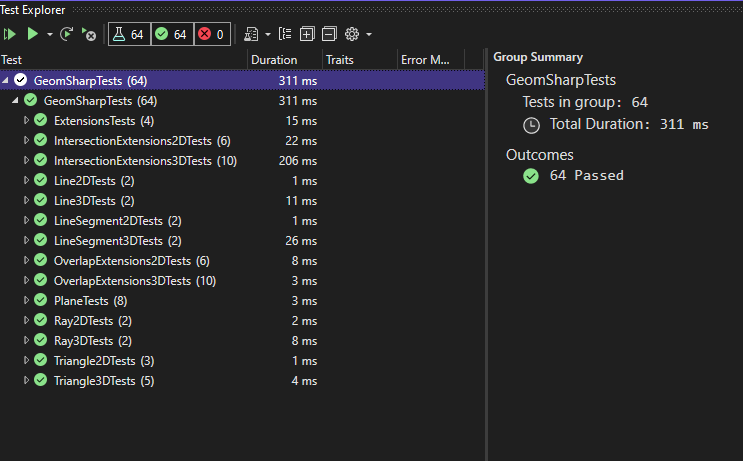
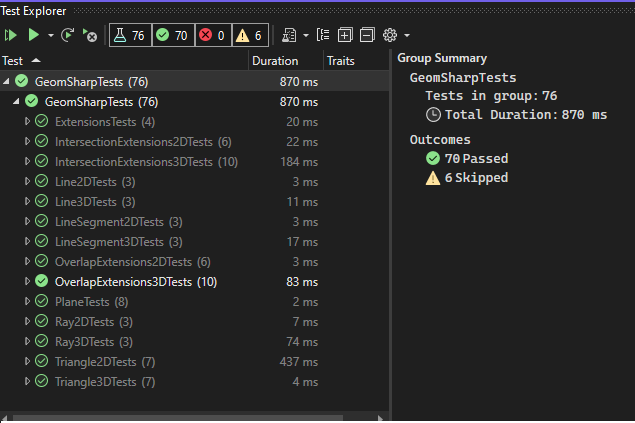
Adjacency test in 2D

diff --git a/GeomSharpTests/Triangle2DTests.cs b/GeomSharpTests/Triangle2DTests.cs
@@ -402,6 +402,76 @@ namespace GeomSharpTests {
       t2 = Triangle2D.FromPoints(p0, p1, p2);
       Assert.IsFalse(t1.Touches(t2), "intersecting\n\tt1=" + t1.ToWkt() + "\n\tt2=" + t2.ToWkt());
     }
+
+    [RepeatedTestMethod(1)]
+    public void Adjacency() {
+      // 2D
+      var t1 = RandomGenerator.MakeTriangle2D().Triangle;
+
+      // Console.WriteLine("t = " + t.ToWkt());
+      if (t1 is null) {
+        return;
+      }
+
+      // temporary data
+      var cm = t1.CenterOfMass();
+      var mid01 = Point2D.FromVector((t1.P0.ToVector() + t1.P1.ToVector()) / 2.0);
+      var mid12 = Point2D.FromVector((t1.P1.ToVector() + t1.P2.ToVector()) / 2.0);
+      var mid20 = Point2D.FromVector((t1.P2.ToVector() + t1.P0.ToVector()) / 2.0);
+      // results and test data
+      Triangle2D t2;
+      IntersectionResult res;
+      Point2D p0, p1, p2;
+
+      // adjacent (same side)
+      p0 = t1.P0;
+      p1 = t1.P1;
+      p2 = mid01 + (mid01 - cm);
+      t2 = Triangle2D.FromPoints(p0, p1, p2);
+      Assert.IsTrue(t1.IsAdjacent(t2), "adjacent (same side)\n\tt1=" + t1.ToWkt() + "\n\tt2=" + t2.ToWkt());
+      res = t1.AdjacentSide(t2);
+      Assert.IsTrue(((LineSegment2D)res.Value).IsSameSegment(LineSegment2D.FromPoints(p0, p1)),
+                    "adjacent (same side)\n\tt1=" + t1.ToWkt() + "\n\tt2=" + t2.ToWkt() + "\n\ttype=" + res);
+      Assert.IsTrue(((LineSegment2D)res.Value).IsSameSegment(LineSegment2D.FromPoints(p1, p0)),
+                    "adjacent (same side)\n\tt1=" + t1.ToWkt() + "\n\tt2=" + t2.ToWkt() + "\n\ttype=" + res);
+
+      p0 = t1.P1;
+      p1 = t1.P2;
+      p2 = mid12 + (mid12 - cm);
+      t2 = Triangle2D.FromPoints(p0, p1, p2);
+      Assert.IsTrue(t1.IsAdjacent(t2), "adjacent (same side)\n\tt1=" + t1.ToWkt() + "\n\tt2=" + t2.ToWkt());
+      res = t1.AdjacentSide(t2);
+      Assert.IsTrue(((LineSegment2D)res.Value).IsSameSegment(LineSegment2D.FromPoints(p0, p1)),
+                    "adjacent (same side)\n\tt1=" + t1.ToWkt() + "\n\tt2=" + t2.ToWkt() + "\n\ttype=" + res);
+
+      p0 = t1.P2;
+      p1 = t1.P0;
+      p2 = mid20 + (mid20 - cm);
+      t2 = Triangle2D.FromPoints(p0, p1, p2);
+      Assert.IsTrue(t1.IsAdjacent(t2), "adjacent (same side)\n\tt1=" + t1.ToWkt() + "\n\tt2=" + t2.ToWkt());
+      res = t1.AdjacentSide(t2);
+      Assert.IsTrue(((LineSegment2D)res.Value).IsSameSegment(LineSegment2D.FromPoints(p0, p1)),
+                    "adjacent (same side)\n\tt1=" + t1.ToWkt() + "\n\tt2=" + t2.ToWkt() + "\n\ttype=" + res);
+
+      // internal (one side in common)
+      p0 = t1.P0;
+      p1 = t1.P1;
+      p2 = cm;
+      t2 = Triangle2D.FromPoints(p0, p1, p2);
+      Assert.IsFalse(t1.IsAdjacent(t2), "internal (one side in common\n\tt1=" + t1.ToWkt() + "\n\tt2=" + t2.ToWkt());
+
+      p0 = t1.P1;
+      p1 = t1.P2;
+      p2 = cm;
+      t2 = Triangle2D.FromPoints(p0, p1, p2);
+      Assert.IsFalse(t1.IsAdjacent(t2), "internal (one side in common\n\tt1=" + t1.ToWkt() + "\n\tt2=" + t2.ToWkt());
+
+      p0 = t1.P2;
+      p1 = t1.P0;
+      p2 = cm;
+      t2 = Triangle2D.FromPoints(p0, p1, p2);
+      Assert.IsFalse(t1.IsAdjacent(t2), "internal (one side in common\n\tt1=" + t1.ToWkt() + "\n\tt2=" + t2.ToWkt());
+    }
   }
 
 }

diff --git a/GeomSharp/Triangle2D.cs b/GeomSharp/Triangle2D.cs
@@ -278,20 +278,33 @@ namespace GeomSharp {
     /// <param name="decimal_precision"></param>
     /// <returns></returns>
     public IntersectionResult AdjacentSide(Triangle2D other, int decimal_precision = Constants.THREE_DECIMALS) {
-      var ovlp_01 = LineSegment2D.FromPoints(this.P0, this.P1, decimal_precision).Overlap(other);
-      var ovlp_12 = LineSegment2D.FromPoints(this.P1, this.P2, decimal_precision).Overlap(other);
-      var ovlp_20 = LineSegment2D.FromPoints(this.P2, this.P0, decimal_precision).Overlap(other);
+      // vertex containment
+      var p_in = new List<(Point2D P, bool IsIn)> { (this.P0, other.Contains(this.P0, decimal_precision)),
+                                                    (this.P1, other.Contains(this.P1, decimal_precision)),
+                                                    (this.P2, other.Contains(this.P2, decimal_precision)) };
+      int n_p_in = p_in.Count(a => a.IsIn == true);
 
-      var segment_overlaps =
-          (new List<IntersectionResult> { ovlp_01, ovlp_12, ovlp_20 }).Where(o => o.ValueType == typeof(LineSegment2D));
+      var q_in = new List<(Point2D P, bool IsIn)> { (other.P0, this.Contains(other.P0, decimal_precision)),
+                                                    (other.P1, this.Contains(other.P1, decimal_precision)),
+                                                    (other.P2, this.Contains(other.P2, decimal_precision)) };
 
-      if (segment_overlaps.Count() > 1) {
-        // TODO: warning, this could be an Overlap or Intersection
+      int n_q_in = q_in.Count(a => a.IsIn == true);
+
+      //    if all points are contained, it's overlap
+      if (n_q_in == 3 || n_p_in == 3) {
+        return new IntersectionResult();
+      }
+      // if no points are contained, it's intersection or unrelated
+      if (n_q_in == 0 || n_p_in == 0) {
         return new IntersectionResult();
       }
 
-      if (segment_overlaps.Count() == 1) {
-        return segment_overlaps.First();
+      var all_points_in = p_in.Where(a => a.IsIn).Select(a => a.P).ToList();
+      all_points_in.AddRange(q_in.Where(a => a.IsIn).Select(b => b.P).ToList());
+      all_points_in = all_points_in.RemoveDuplicates(decimal_precision);
+
+      if (all_points_in.Count == 2) {
+        return new IntersectionResult(LineSegment2D.FromPoints(all_points_in[0], all_points_in[1], decimal_precision));
       }
 
       return new IntersectionResult();

diff --git a/GeomSharp/LineSegment2D.cs b/GeomSharp/LineSegment2D.cs
@@ -21,7 +21,18 @@ namespace GeomSharp {
       return new LineSegment2D(p0, p1);
     }
 
-    public bool AlmostEquals(LineSegment2D other) => P0.AlmostEquals(other.P0) && P1.AlmostEquals(other.P1);
+    public bool AlmostEquals(LineSegment2D other, int decimal_precision = Constants.THREE_DECIMALS) =>
+        P0.AlmostEquals(other.P0, decimal_precision) && P1.AlmostEquals(other.P1, decimal_precision);
+
+    /// <summary>
+    /// Almost equals from a to b, or from b to a
+    /// </summary>
+    /// <param name="other"></param>
+    /// <param name="decimal_precision"></param>
+    /// <returns></returns>
+    public bool IsSameSegment(LineSegment2D other, int decimal_precision = Constants.THREE_DECIMALS) =>
+        P0.AlmostEquals(other.P0, decimal_precision) && P1.AlmostEquals(other.P1, decimal_precision) ||
+        P1.AlmostEquals(other.P0, decimal_precision) && P0.AlmostEquals(other.P1, decimal_precision);
 
     public bool Equals(LineSegment2D other) => this.AlmostEquals(other);
 

diff --git a/GeomSharp/LineSegment3D.cs b/GeomSharp/LineSegment3D.cs
@@ -24,6 +24,16 @@ namespace GeomSharp {
     public bool AlmostEquals(LineSegment3D other, int decimal_precision = Constants.THREE_DECIMALS) =>
         P0.AlmostEquals(other.P0, decimal_precision) && P1.AlmostEquals(other.P1, decimal_precision);
 
+    /// <summary>
+    /// Almost equals from a to b, or from b to a
+    /// </summary>
+    /// <param name="other"></param>
+    /// <param name="decimal_precision"></param>
+    /// <returns></returns>
+    public bool IsSameSegment(LineSegment3D other, int decimal_precision = Constants.THREE_DECIMALS) =>
+        P0.AlmostEquals(other.P0, decimal_precision) && P1.AlmostEquals(other.P1, decimal_precision) ||
+        P1.AlmostEquals(other.P0, decimal_precision) && P0.AlmostEquals(other.P1, decimal_precision);
+
     public bool Equals(LineSegment3D other) => this.AlmostEquals(other);
 
     public override bool Equals(object other) => other != null && other is LineSegment3D &&

diff --git a/GeomSharp/Line3D.cs b/GeomSharp/Line3D.cs
@@ -33,7 +33,8 @@ namespace GeomSharp {
       P1 = Origin + 1 * Direction;  // simbolic
     }
 
-    public bool AlmostEquals(Line3D other) => Direction.AlmostEquals(other.Direction);
+    public bool AlmostEquals(Line3D other, int decimal_precision = Constants.THREE_DECIMALS) =>
+        Direction.AlmostEquals(other.Direction, decimal_precision);
 
     public bool Equals(Line3D other) => this.AlmostEquals(other);
 

diff --git a/GeomSharpTests/Triangle3DTests.cs b/GeomSharpTests/Triangle3DTests.cs
@@ -115,5 +115,13 @@ namespace GeomSharpTests {
     [Ignore]
     [RepeatedTestMethod(1)]
     public void Overlap() {}
+
+    [Ignore]
+    [RepeatedTestMethod(1)]
+    public void Adjacency() {}
+
+    [Ignore]
+    [RepeatedTestMethod(1)]
+    public void Touch() {}
   }
 }
